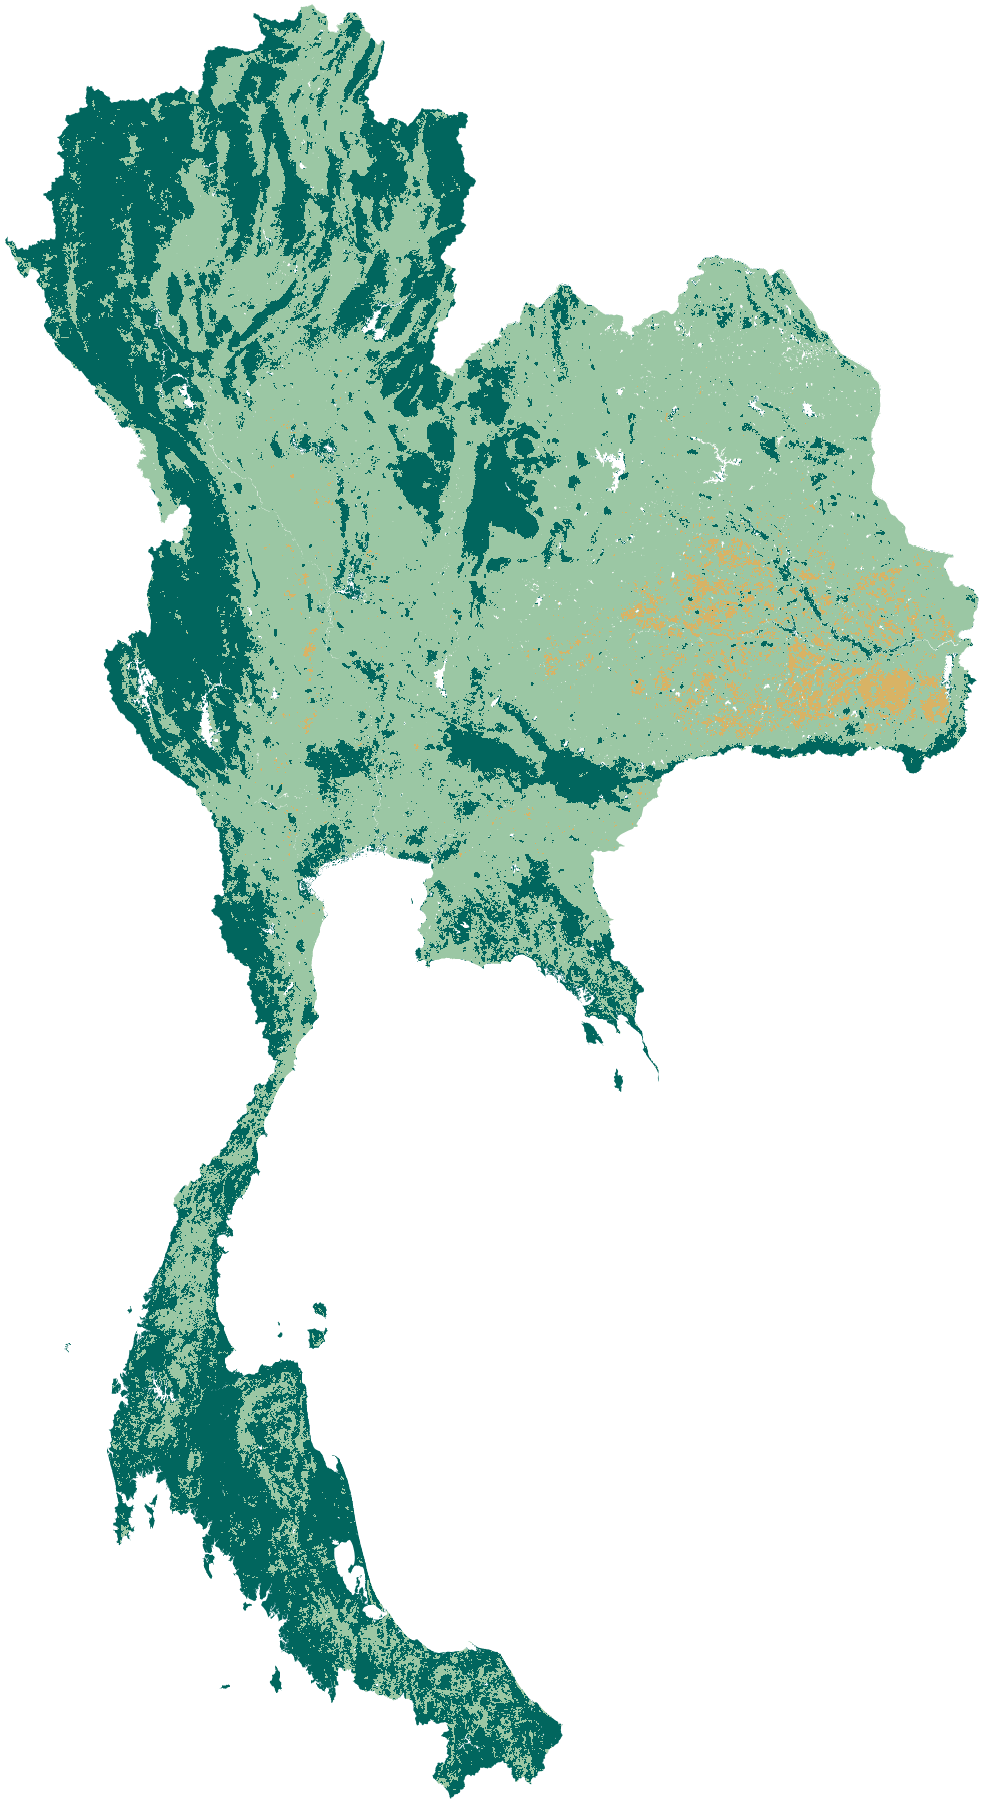
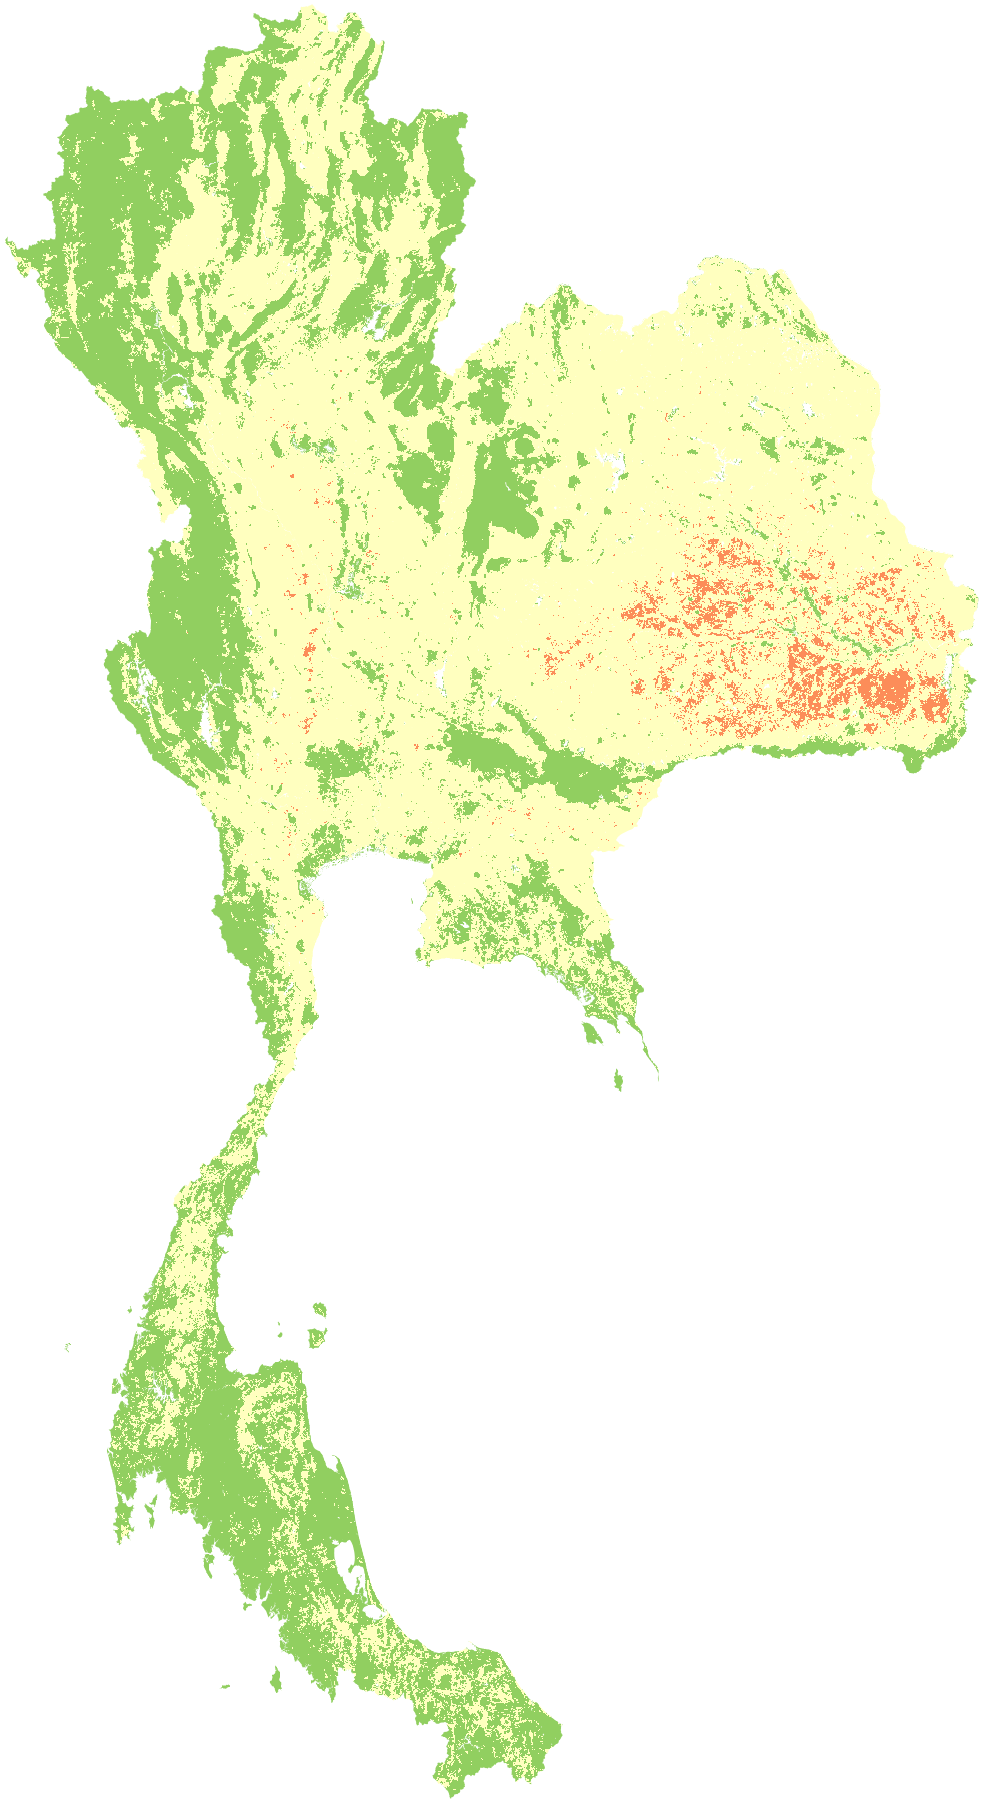
ชุดสีมาตรฐาน ColorBrewer ทั้งระบบ พร้อมอ้างอิง
- pH 11 ระดับ: Spectral (แดง-เหลือง-เขียว-น้ำเงิน ใกล้แผ่นเทียบสี pH)
- OM/P/K/CEC ต่ำ/ปานกลาง/สูง: RdYlGn; EC: OrRd; clay/silt/sand: YlOrBr; N: BuGn; GSOC: YlGn
- อ้างอิง Harrower & Brewer (2003), The Cartographic Journal 40(1):27–37 บน legend และใน docs
- ภาพ raster จาก GEE ส่งออกใหม่ด้วยสีชุดเดียวกัน

diff --git a/site/scales.js b/site/scales.js
@@ -1,19 +1,19 @@
 // ช่วงชั้นและสีของทุกค่า — ใช้ร่วมกันทั้งระบบ: สีจุดบนแผนที่, คำอธิบายสี, แผนที่ดิน raster (SoilGrids ผ่าน SLD
-// และภาพจาก scripts/build_rasters.py ซึ่งอ่านไฟล์นี้) — เนื้อหาหลัง "=" ต้องเป็น JSON
+// และภาพจาก scripts/build_rasters.py ซึ่งอ่านไฟล์นี้) — เนื้อหาหลัง "const SCALES =" ต้องเป็น JSON
 // bins = ขอบบนของแต่ละชั้น (ค่า < bins[0] ได้สีแรก), colors มากกว่า bins หนึ่งสี
 // levels: ชื่อระดับ (th) ของแต่ละชั้น; ref "fert" = เกณฑ์ความอุดมสมบูรณ์ของดิน กองสำรวจดิน (2523)
+// สี: ColorBrewer (Harrower & Brewer, 2003, The Cartographic Journal 40(1):27–37; colorbrewer2.org)
+//     pH ใช้ Spectral 11 สี (แดง-เหลือง-เขียว-น้ำเงิน ใกล้แผ่นเทียบสี pH), ระดับต่ำ/ปานกลาง/สูง ใช้ RdYlGn
 const SCALES = {
- "ph": {"unit": "", "bins": [3.5, 4.5, 5.1, 5.6, 6.1, 6.6, 7.4, 7.9, 8.5, 9.1],
-        "colors": ["#67000d", "#b30000", "#d7301f", "#ef6548", "#fc8d59", "#fdbb84", "#9ccc65", "#6baed6", "#3182bd", "#08519c", "#08306b"],
-        "levels": ["กรดรุนแรงที่สุด", "กรดรุนแรงมาก", "กรดจัดมาก", "กรดจัด", "กรดปานกลาง", "กรดเล็กน้อย", "เป็นกลาง", "ด่างเล็กน้อย", "ด่างปานกลาง", "ด่างจัด", "ด่างจัดมาก"]},
- "ec": {"unit": "dS/m", "bins": [0.2, 0.5, 1, 2, 4], "colors": ["#fff5eb", "#fdd0a2", "#fd8d3c", "#d94801", "#8c2d04", "#4a1500"]},
- "om": {"unit": "%", "bins": [1.5, 3.5], "colors": ["#d8b365", "#9bc7a4", "#01665e"], "levels": ["ต่ำ", "ปานกลาง", "สูง"], "ref": "fert"},
- "n": {"unit": "g/kg", "bins": [0.5, 1, 1.5, 2, 3], "colors": ["#ffffcc", "#c7e9b4", "#7fcdbb", "#41b6c4", "#225ea8", "#0c2c84"]},
- "p": {"unit": "mg/kg", "bins": [10, 25], "colors": ["#d8b365", "#9bc7a4", "#01665e"], "levels": ["ต่ำ", "ปานกลาง", "สูง"], "ref": "fert"},
- "k": {"unit": "mg/kg", "bins": [60, 90], "colors": ["#d8b365", "#9bc7a4", "#01665e"], "levels": ["ต่ำ", "ปานกลาง", "สูง"], "ref": "fert"},
- "clay": {"unit": "%", "bins": [10, 20, 30, 40, 60], "colors": ["#fff7ec", "#fdd49e", "#fc8d59", "#d7301f", "#990000", "#4d0000"]},
- "silt": {"unit": "%", "bins": [10, 20, 30, 40, 60], "colors": ["#fff7ec", "#fdd49e", "#fc8d59", "#d7301f", "#990000", "#4d0000"]},
- "sand": {"unit": "%", "bins": [20, 40, 60, 70, 85], "colors": ["#fff7ec", "#fdd49e", "#fc8d59", "#d7301f", "#990000", "#4d0000"]},
- "cec": {"unit": "cmol/kg", "bins": [10, 20], "colors": ["#d8b365", "#9bc7a4", "#01665e"], "levels": ["ต่ำ", "ปานกลาง", "สูง"], "ref": "fert"},
- "gsoc": {"unit": "t/ha", "bins": [20, 40, 60, 80, 100], "colors": ["#f7fcb9", "#d9f0a3", "#addd8e", "#41ab5d", "#006837", "#00331a"]}
+ "ph": {"unit": "", "bins": [3.5, 4.5, 5.1, 5.6, 6.1, 6.6, 7.4, 7.9, 8.5, 9.1], "colors": ["#9e0142", "#d53e4f", "#f46d43", "#fdae61", "#fee08b", "#ffffbf", "#e6f598", "#abdda4", "#66c2a5", "#3288bd", "#5e4fa2"], "levels": ["กรดรุนแรงที่สุด", "กรดรุนแรงมาก", "กรดจัดมาก", "กรดจัด", "กรดปานกลาง", "กรดเล็กน้อย", "เป็นกลาง", "ด่างเล็กน้อย", "ด่างปานกลาง", "ด่างจัด", "ด่างจัดมาก"], "palette": "ColorBrewer Spectral"},
+ "ec": {"unit": "dS/m", "bins": [0.2, 0.5, 1, 2, 4], "colors": ["#fef0d9", "#fdd49e", "#fdbb84", "#fc8d59", "#e34a33", "#b30000"], "palette": "ColorBrewer OrRd"},
+ "om": {"unit": "%", "bins": [1.5, 3.5], "colors": ["#fc8d59", "#ffffbf", "#91cf60"], "levels": ["ต่ำ", "ปานกลาง", "สูง"], "ref": "fert", "palette": "ColorBrewer RdYlGn"},
+ "n": {"unit": "g/kg", "bins": [0.5, 1, 1.5, 2, 3], "colors": ["#edf8fb", "#ccece6", "#99d8c9", "#66c2a4", "#2ca25f", "#006d2c"], "palette": "ColorBrewer BuGn"},
+ "p": {"unit": "mg/kg", "bins": [10, 25], "colors": ["#fc8d59", "#ffffbf", "#91cf60"], "levels": ["ต่ำ", "ปานกลาง", "สูง"], "ref": "fert", "palette": "ColorBrewer RdYlGn"},
+ "k": {"unit": "mg/kg", "bins": [60, 90], "colors": ["#fc8d59", "#ffffbf", "#91cf60"], "levels": ["ต่ำ", "ปานกลาง", "สูง"], "ref": "fert", "palette": "ColorBrewer RdYlGn"},
+ "clay": {"unit": "%", "bins": [10, 20, 30, 40, 60], "colors": ["#ffffd4", "#fee391", "#fec44f", "#fe9929", "#d95f0e", "#993404"], "palette": "ColorBrewer YlOrBr"},
+ "silt": {"unit": "%", "bins": [10, 20, 30, 40, 60], "colors": ["#ffffd4", "#fee391", "#fec44f", "#fe9929", "#d95f0e", "#993404"], "palette": "ColorBrewer YlOrBr"},
+ "sand": {"unit": "%", "bins": [20, 40, 60, 70, 85], "colors": ["#ffffd4", "#fee391", "#fec44f", "#fe9929", "#d95f0e", "#993404"], "palette": "ColorBrewer YlOrBr"},
+ "cec": {"unit": "cmol/kg", "bins": [10, 20], "colors": ["#fc8d59", "#ffffbf", "#91cf60"], "levels": ["ต่ำ", "ปานกลาง", "สูง"], "ref": "fert", "palette": "ColorBrewer RdYlGn"},
+ "gsoc": {"unit": "t/ha", "bins": [20, 40, 60, 80, 100], "colors": ["#ffffcc", "#d9f0a3", "#addd8e", "#78c679", "#31a354", "#006837"], "palette": "ColorBrewer YlGn"}
 };

diff --git a/site/app.js b/site/app.js
@@ -130,6 +130,8 @@ function scaleItems(key) {
 const FERT_REF = "http://oss101.ldd.go.th/osr_data%26service/OSR_PDF/TB_SSK_Distribute/D_SSK567.pdf";
 const refNote = (key) => (SCALES[key].ref === "fert"
   ? `${esc(t("fertRef"))} <a href="${FERT_REF}" target="_blank" rel="noopener">${esc(t("fertRefLink"))}</a>` : "");
+// อ้างอิงชุดสี (ColorBrewer)
+const paletteNote = (key) => `${esc(t("paletteRef"))}: <a href="https://colorbrewer2.org/" target="_blank" rel="noopener">${esc(SCALES[key].palette)}</a> (Harrower & Brewer, 2003)`;
 
 // ---------- ระบายสีจุดตามค่าที่เลือก ----------
 const NO_DATA = "#b8b2a7";
@@ -204,7 +206,8 @@ function renderLegend() {
   $("legend").innerHTML = items.map(([c, l]) => `<li><i style="background:${c}"></i>${esc(l)}</li>`).join("") +
     `<li><i style="background:${NO_DATA};opacity:.5"></i>${esc(t("noValue"))}</li>` +
     `<li class="muted small">${esc(t("varSources")(sources.join(", ")))}${colorVar === "om" ? ` · ${esc(t("omNote"))}` : ""}</li>` +
-    (refNote(colorVar) ? `<li class="muted small">${refNote(colorVar)}</li>` : "");
+    (refNote(colorVar) ? `<li class="muted small">${refNote(colorVar)}</li>` : "") +
+    `<li class="muted small">${paletteNote(colorVar)}</li>`;
 }
 
 function osdPopup(s) {

diff --git a/site/i18n.js b/site/i18n.js
@@ -21,6 +21,7 @@ const I18N = {
     rasterLinked: "สีของจุดและแผนที่ดินใช้ค่าและช่วงชั้นเดียวกัน",
     mapLegend: "คำอธิบายสีของแผนที่",
     unit: "หน่วย",
+    paletteRef: "ชุดสี",
     opacity: "ความทึบ",
     rasterEstimate: "ค่าประมาณจากแบบจำลอง ไม่ใช่ค่าวัด",
     step1Title: "ดูแผนที่",
@@ -223,6 +224,7 @@ const I18N = {
     rasterLinked: "Points and the soil map show the same variable and classes",
     mapLegend: "Map colours",
     unit: "Unit",
+    paletteRef: "Colours",
     opacity: "Opacity",
     rasterEstimate: "Model estimate, not a measurement",
     step1Title: "Explore the map",

diff --git a/site/areas.js b/site/areas.js
@@ -153,7 +153,7 @@ function sgSld(sg) {
     "</ColorMap></RasterSymbolizer></Rule></FeatureTypeStyle></UserStyle></NamedLayer></StyledLayerDescriptor>";
 }
 const scaleList = (key) => `<ul class="legend">${scaleItems(key).map(([c, l]) => `<li><i style="background:${c}"></i>${esc(l)}</li>`).join("")}</ul>` +
-  (refNote(key) ? `<p>${refNote(key)}</p>` : "");
+  (refNote(key) ? `<p>${refNote(key)}</p>` : "") + `<p>${paletteNote(key)}</p>`;
 
 function rasterLegend() {
   const id = $("raster").value, sg = SOILGRIDS.find((r) => r[0] === id), im = rasterMeta.find((r) => r.id === id);

diff --git a/scripts/build_rasters.py b/scripts/build_rasters.py
@@ -28,7 +28,7 @@ def load_scales():
     """ช่วงชั้นและสีจาก site/scales.js (ชุดเดียวกับสีจุดบนเว็บ)"""
     with open(os.path.join(ROOT, "site", "scales.js"), encoding="utf-8") as f:
         text = f.read()
-    return json.loads(text[text.index("const SCALES =") + len("const SCALES ="):].strip().rstrip(";"))
+    return json.loads(text[text.index("\nconst SCALES =") + len("\nconst SCALES ="):].strip().rstrip(";"))
 
 
 # (id, asset, band, ตัวคูณจากค่าดิบเป็นหน่วยของช่วงชั้น, ช่วงชั้นใน scales.js, ชื่อ th, ชื่อ en, แหล่ง, สัญญาอนุญาต)

diff --git a/docs/data-cleaning.md b/docs/data-cleaning.md
@@ -200,6 +200,20 @@ profile ที่ห่างจากจุด LDD ≤ 250 m ในปีเด
 ([`scripts/build_rasters.py`](../scripts/build_rasters.py) จัดชั้นด้วยไฟล์เดียวกัน) ค่าคาร์บอนของแผนที่ raster แปลงเป็น OM (%) ด้วย × 1.724 ให้เทียบกับจุดได้
 pH ใช้ 11 ระดับตามที่ LDD รายงาน (กรดรุนแรงที่สุด < 3.5 … ด่างจัดมาก > 9.0)
 
+**ชุดสี** ใช้ ColorBrewer ซึ่งเป็นชุดสีมาตรฐานของแผนที่เชิงหัวข้อ (Harrower, M. & Brewer, C. A. (2003). ColorBrewer.org: An Online Tool for Selecting Colour Schemes for Maps. *The Cartographic Journal*, 40(1), 27–37; <https://colorbrewer2.org>)
+
+| ค่า | ชุดสี | เหตุผล |
+|---|---|---|
+| pH (11 ระดับ) | Spectral 11 | แดง (กรด) → เหลือง → เขียว (กลาง) → น้ำเงิน/ม่วง (ด่าง) ใกล้แผ่นเทียบสี pH ที่คุ้นเคย |
+| OM, P, K, CEC (ต่ำ/ปานกลาง/สูง) | RdYlGn 3 | ต่ำ = ส้มแดง, ปานกลาง = เหลือง, สูง = เขียว |
+| EC | OrRd 6 | ความเค็มมาก = แดงเข้ม |
+| Clay, Silt, Sand | YlOrBr 6 | โทนดิน |
+| N | BuGn 6 | |
+| คาร์บอนสะสม (GSOCmap) | YlGn 6 | |
+
+ไม่ใช้ชุดสีของ ISRIC (GSIF `soil.legends`, Hengl) แม้เป็นชุดสีอ้างอิงของแผนที่ดินโลก เพราะขอบสีถูกตั้งจาก quantile ของข้อมูลทั้งโลก
+เมื่อใช้กับเกณฑ์ของ LDD ช่วงกรดที่ดินไทยส่วนใหญ่อยู่จะเป็นสีเหลืองเกือบทั้งหมด และ OM 3 ระดับเป็นสีซีดจนแยกไม่ออก
+
 สีของจุดสำหรับ OM, P, K และ CEC ใช้เกณฑ์การจัดระดับความอุดมสมบูรณ์ของดิน 3 ระดับของกองสำรวจดิน (2523)
 ตามตารางที่ 1 ใน [สุธินี ขจรเวหาศน์, *การประเมินระดับปริมาณธาตุอาหารและความอุดมสมบูรณ์ของดินเพื่อให้คำแนะนำการจัดการดินและปุ๋ยสำหรับพืชเศรษฐกิจ จังหวัดหนองบัวลำภู*, กรมพัฒนาที่ดิน](http://oss101.ldd.go.th/osr_data%26service/OSR_PDF/TB_SSK_Distribute/D_SSK567.pdf)
 
